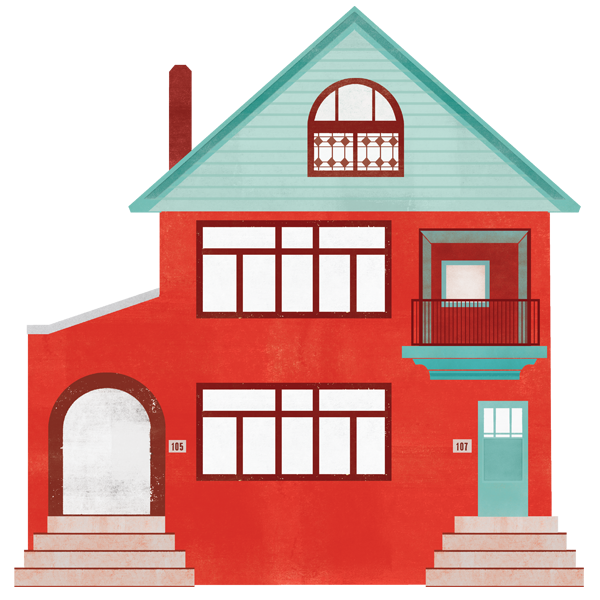
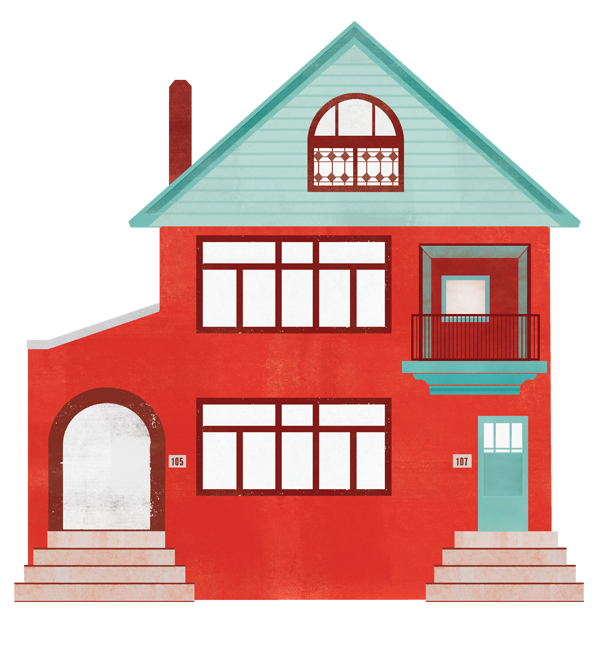
Updated about me section padding, switched houses

diff --git a/index.html b/index.html
@@ -65,9 +65,9 @@
              <p>PGH / Digs is a project started at the beginning of 2013 where I document and illustrate different homes in the city of Pittsburgh. I came up with the idea while working at a local architect firm and observing them hand draw different homes that they were working on. Whenever I drive or walk around different neighborhoods, I'm always inspired by the different styles of homes we have here. I am happy to create a custom house illustration for your wall, feel free to contact me <a href="mailto:reconstructingideas@gmail.com ">reconstructingideas@gmail.com</a></p>
 
 
-             <p>I design, create collages, collect old textbooks, cameras and in my free time I run the local blog <a href="http://www.twitter.com/mundaniahorvath" target="_blank">Steeltown Anthem.</a></p>
+             <p>I design, create collages, collect old textbooks, cameras and in my free time I run the local blog <a href="http://steeltownanthem.com/" target="_blank">Steeltown Anthem.</a></p>
 
-             <a href="http://www.twitter.com/mundaniahorvath" target="_blank"><img src="img/twitter.png" alt="mundania horvath twitter" /></a>
+             <p><a href="http://www.twitter.com/mundaniahorvath" target="_blank"><img src="img/twitter.png" alt="mundania horvath twitter" /></a>
 
              <a href="http://www.facebook.com/pages/Steeltown-Anthem/218480554883800" target="_blank"><img src="img/facebook.png" alt="mundania horvath facebook" /></a>
 
@@ -91,6 +91,11 @@
   <p class="whitetext">1064 Beechwood Blvd, Point Breeze</p>
 </div>
 
+<div class="house larryville fade-in">
+  <img src="img/43rdbutler.png" alt="95 43rd Street">
+  <p class="whitetext">95 43rd Street, Lawrenceville </p>
+</div>
+
 <div class="house lang fade-in">
   <img src="img/209lang.png" alt="209 Lang">
   <p class="graytext">209 North Lang Avenue, Point Breeze North </p>
@@ -98,17 +103,12 @@
 
 <div class="house biddle fade-in">
   <img src="img/105biddle.png" alt="105 biddle avenue">
-  <p class="graytext">105/107 Biddle Avenue, Regent Square</p>
+  <p class="graytext">105:107 Biddle Avenue, Regent Square</p>
 </div>
 
 <div class="house snegley fade-in">
   <img src="img/1056snegley.png" alt="1056 S. Negley Avenue">
   <p class="graytext">1056 S. Negley Avenue, Squirrel Hill</p>
-</div>
-
-<div class="house larryville fade-in">
-  <img src="img/43rdbutler.png" alt="95 43rd Street">
-  <p class="whitetext">95 43rd Street, Lawrenceville </p>
 </div>
 
 <div class="house beechwoodtwo fade-in">

diff --git a/css/pghstyles.css b/css/pghstyles.css
@@ -36,7 +36,7 @@ h2 {
 }
 
 #disclosure p {
-  padding: 0 12px;
+  padding: 15px 12px;
 }
 
 .twitter {
@@ -100,9 +100,9 @@ p.graytext {
 	right: 0;
 	background-image: url(../img/arrow.png);
 	background-repeat: no-repeat;
-	height: 70px; width: 70px;
+	height: 60px; width: 60px;
 	padding: 10px 10px;
-	margin-right: 15px 10px;
+	margin: 15px 10px;
 	opacity:0.4;
 }
 
